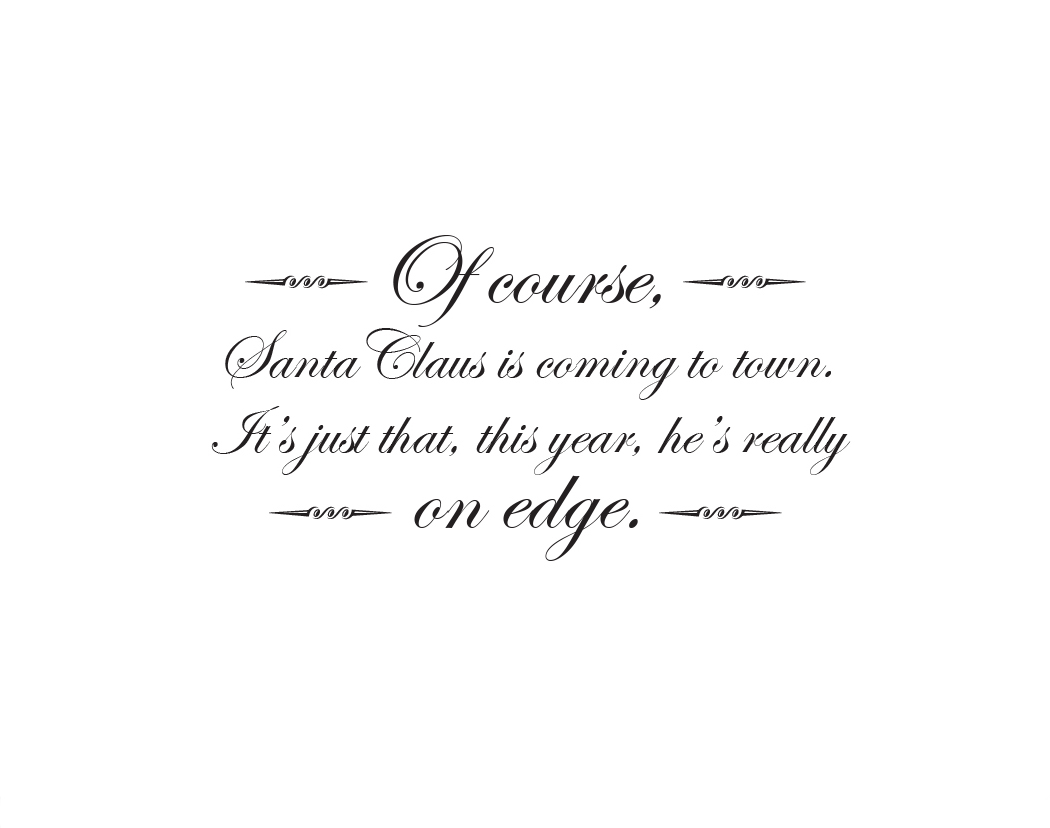
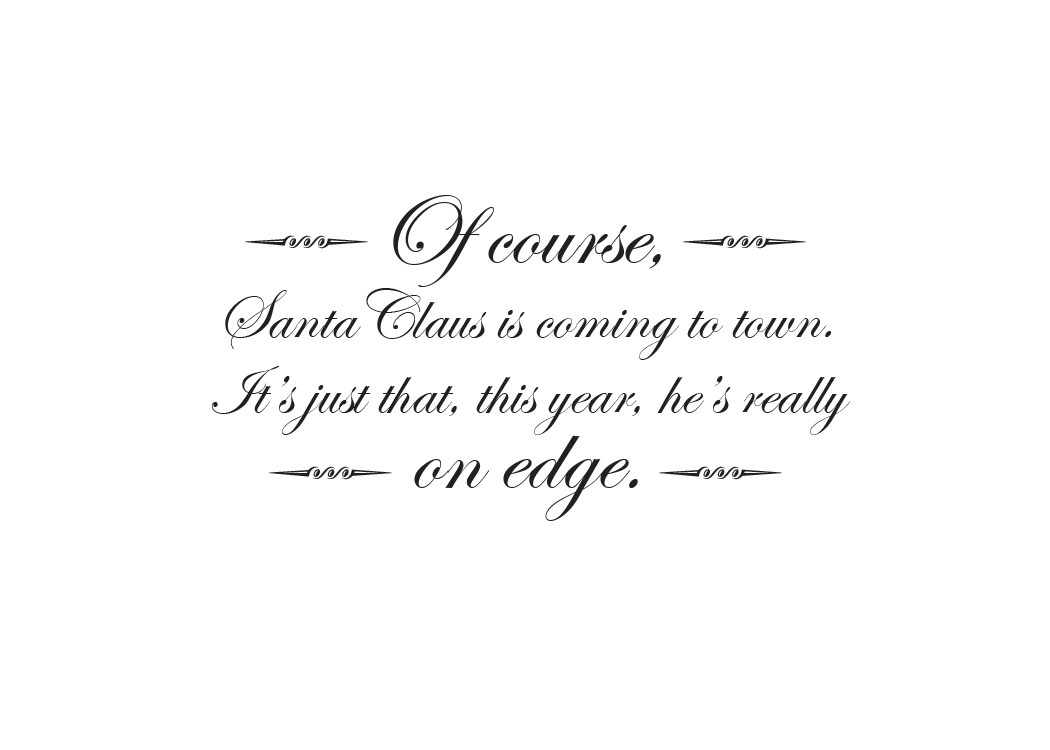
removed unnecessary constructors from About & Projects, added a typeface and imported react-medium-image-zoom for smooth image handling, completed cards portion of site

diff --git a/src/components/Cards.js b/src/components/Cards.js
@@ -15,34 +15,41 @@ import Inside2010 from '../images/2010/Inside2010.jpg'
 import Cover2011 from '../images/2011/Cover2011.jpg'
 import Inside2011 from '../images/2011/Inside2011.jpg'
 import Cover2013 from '../images/2013/Cover2013.jpg'
-import Inside2013_1 from '../images/2013/Inside2013_1.jpg'
+import Inside2013_6 from '../images/2013/Inside2013_6.jpg'
 
 export default class Cards extends React.Component {
 	constructor(props) {
 		super(props);
 
-			this.cardDescription2001 = "asdfasdf asdfasdf asdfasdf asdfasdf asdfasdf asdfasdf asdfasdf asdfasdf asdfasdf asdfasdf asdfasdf asdfasdf asdfasdf asdfasdf asdfasdf asdfasdf asdfasdf asdfasdf asdfasdf asdfasdf ";
+			this.cardDescription2001 = '"The Beginning..."';
+			this.cardDescription2007 = '"Three Wise Children"';
+			this.cardDescription2008 = '"Shredding Santa"';
+			this.cardDescription2009 = '"Cataloging Christmas"';
+			this.cardDescription2010 = '"The Sound of Pearson"';
+			this.cardDescription2011 = '"Hurricane Sandy is Coming to Town"';
+			this.cardDescription2013 = '"Christmas Fitness"';
+
 	}
 
 	render() {
 		return(
 			<div>
 				<div className="cardsSummary">
-					Ze Vault of Pearson Family Christmas Cards
+					The Vault of Pearson Family Christmas Cards
 				</div>
 				<div className="cardsContainer">
 					<SingleCard cover={Cover2001} inside={Inside2001} cardYear={"2001"} cardDescription={this.cardDescription2001}/>
-					<SingleCard cover={Cover2007} inside={Inside2007} cardYear={"2007"}/>
-					<SingleCard cover={Cover2008} inside={Inside2008} cardYear={"2008"}/>
-					<SingleCard cover={Cover2009} inside={Inside2009} cardYear={"2009"}/>
-					<SingleCard cover={Cover2010} inside={Inside2010} cardYear={"2010"}/>
-					<SingleCard cover={Cover2011} inside={Inside2011} cardYear={"2011"}/>
-					<SingleCard cover={Cover2013} inside={Inside2013_1} cardYear={"2013"}/>
+					<SingleCard cover={Cover2007} inside={Inside2007} cardYear={"2007"} cardDescription={this.cardDescription2007}/>
+					<SingleCard cover={Cover2008} inside={Inside2008} cardYear={"2008"} cardDescription={this.cardDescription2008}/>
+					<SingleCard cover={Cover2009} inside={Inside2009} cardYear={"2009"} cardDescription={this.cardDescription2009}/>
+					<SingleCard cover={Cover2010} inside={Inside2010} cardYear={"2010"} cardDescription={this.cardDescription2010}/>
+					<SingleCard cover={Cover2011} inside={Inside2011} cardYear={"2011"} cardDescription={this.cardDescription2011}/>
+					<SingleCard cover={Cover2013} inside={Inside2013_6} cardYear={"2013"} cardDescription={this.cardDescription2013}/>
 				</div>
 				<div className="ritigoContainer">
 					<span className="upper ritigo ritigoLightRed"></span>
 					<span className="middle ritigo ritigoDarkGreen"></span>
-					<span className="lower ritigo ritigoMediumGreen"></span>
+					<span className="lower ritigo ritigoLightRed"></span>
 					<span className="upperRight ritigo ritigoMediumGreen"></span>
 					<span className="middleRight ritigo ritigoLightRed"></span>
 					<span className="lowerRight ritigo ritigoDarkGreen"></span>

diff --git a/src/css/cards.css b/src/css/cards.css
@@ -1,16 +1,16 @@
-/* Cards */
+ /* Cards */
 
 
 .cardsSummary{
-	padding: 80px;
+	padding: 50px;
 	text-align: center;
-	font-family: tangerine;
-	font-size: 32px;
+	font-family: pinyon script;
+	font-style: normal;
+	font-size: 48px;
 }
 
 .cardsContainer{
-	min-height: 1000px;
-	width: 1000px;
+	width: 1100px;
 	min-width: 1000px;
 	margin: 0 auto;
 	border-radius: 5px;
@@ -18,15 +18,21 @@
 
 .cardLayout{
 	width: 100%;
-	margin: 20px;
+	/* padding-top: 5px;
+	padding-bottom: 5px; */
+	padding: 10px;
+	margin-bottom: 20px;
 	float: left;
 	background-color: rgba(255,255,255, 1);
+	border: 0.5px solid lightgrey;
 	text-align: center;
 	border-radius: 5px;
 }
 
-.cardLayout > div {
-	display: inline-block;
+.cardLayout{
+	display: flex;
+	justify-content: space-between;
+	align-items: center;
 	vertical-align: middle;
 	vertical-align: -webkit-baseline-middle;
 }
@@ -35,29 +41,37 @@
 	margin: auto;
 	height: auto;
 	width: 300px;
+	margin-right: 5px;
+	border: 0.5px solid green;
+	border-radius: 3px;
 }
 
 .cardInside{
+	margin: auto;
 	height: auto;
 	width: 300px;
+	margin-right: 5px;
+	border: 0.5px solid red;
+	border-radius: 3px;
 }
 
 .cardYear{
-	padding: 15px;
+	min-width: 300px;
 	text-align: center;
-	font-family: bitter;
-	text-decoration: underline;
-	font-size: 36px;
+	font-family: pinyon script;
+	font-size: 40px;
 }
 
 .cardDescription{
-	width: 250px;
-	height: 250px;
-	word-wrap: break-word;
+	text-align: center;
+	font-family: pinyon script;
+	font-size: 32px;
+	white-space: pre-wrap;
 }
 
 .cardTextContainer{
 	margin: auto;
+	padding: 15px;
 }
 
 .ritigoLightRed{

diff --git a/src/css/general.css b/src/css/general.css
@@ -8,9 +8,6 @@
 
 .bannerContainer{
 	width: 100%;
-	position: sticky;
-	position: -webkit-sticky;
-	top: 0;
 	background-color: white;
 }
 
@@ -26,14 +23,6 @@
 	width: 100%;
 	min-width: 1000px;
 	text-align: center;
-	-moz-animation: reveal-banner 1s 0.25s ease-in-out;
-	-webkit-animation: reveal-banner 1s 0.25s ease-in-out;
-	-ms-animation: reveal-banner 1s 0.25s ease-in-out;
-	animation: reveal-banner 1s 0.25s ease-in-out;
-	-moz-animation-fill-mode: forwards;
-	-webkit-animation-fill-mode: forwards;
-	-ms-animation-fill-mode: forwards;
-	animation-fill-mode: forwards;
 }
 
 .pearsonalLogo{
@@ -84,6 +73,11 @@
 	text-align: center;
 	list-style-type: none;
 	display: inline-block;
+	position: -webkit-sticky;
+	position: -moz-sticky;
+	position: -ms-sticky;
+	position: -o-sticky;
+	top: 0;
 }
 
 li{
@@ -138,9 +132,13 @@ li{
 /* Footer */
 
 .footerContainer{
-	width: 1000px;
+	width: 100%;
 	min-width: 1000px;
 	margin: 0 auto;
+}
+
+hr{
+	width: 1000px;
 }
 
 .footerText{
@@ -155,7 +153,7 @@ li{
 /* Ritigos */
 
 .ritigoContainer{
-	/* min-width: 1000px !important; */
+	width: 1000px !important;
 }
 
 .ritigo{
@@ -163,9 +161,12 @@ li{
 	transform: skewY(-12deg);
 	background-clip: border-box;
 	box-sizing: border-box;
-	position: absolute;
 	display: block;
 	z-index: -100;
+}
+
+.ritigoContainer > span{
+	position: fixed;
 }
 
 .upper{

diff --git a/src/components/SingleCard.js b/src/components/SingleCard.js
@@ -1,27 +1,23 @@
 import React from 'react';
+import ImageZoom from 'react-medium-image-zoom'
 
 export default class SingleCard extends React.Component {
-	constructor(props) {
-		super(props);
-
-	}
-
 	render() {
 		return(
 			<div className="cardLayout">
-				<div>
-					<img className="cardCover" src={this.props.cover} alt="Cover" />
-				</div>
-				<div>
-					<img className="cardInside" src={this.props.inside} alt="Inside" />
-				</div>
 				<div className="cardTextContainer">
 					<div className="cardYear">
 						{this.props.cardYear}
 					</div>
-					<div className="cardDescription">
+					<span className="cardDescription">
 						{this.props.cardDescription}
-					</div>
+					</span>
+				</div>
+				<div>
+					<ImageZoom image={{src: this.props.cover, alt: 'Cover', className: 'cardCover'}}/>
+				</div>
+				<div>
+					<ImageZoom image={{src: this.props.inside, alt: 'Inside', className: 'cardInside'}}/>
 				</div>
 			</div>
 		)

diff --git a/src/App.js b/src/App.js
@@ -14,7 +14,7 @@ import About from './components/About';
 import Cards from './components/Cards';
 import Projects from './components/Projects';
 import NotFound from './components/NotFound';
-// import Footer from './components/Footer';
+import Footer from './components/Footer';
 
 class App extends Component {
     render() {
@@ -30,6 +30,7 @@ class App extends Component {
 						<Route component={NotFound}/>
 					</Switch>
 				</Router>
+				<Footer/>
 			</div>
         );
     }
@@ -38,4 +39,3 @@ class App extends Component {
 export default App;
 
 // 248, 208, 231 (Pink)
-// <Footer/>

diff --git a/src/index.css b/src/index.css
@@ -1,6 +1,7 @@
 body{
+	height: 100%;
+	bottom: 0;
 	margin: 0;
-	padding: 0;
 	background-color: rgba(246, 249, 252, 1);
 	font-family: -apple-system, BlinkMacSystemFont, "Segoe UI", "Roboto", "Oxygen",
 	"Ubuntu", "Cantarell", "Fira Sans", "Droid Sans", "Helvetica Neue",

diff --git a/src/index.js b/src/index.js
@@ -2,6 +2,9 @@ import React from 'react';
 import ReactDOM from 'react-dom';
 
 import "typeface-bitter";
+import "typeface-pinyon-script";
+import "react-medium-image-zoom";
+
 import './index.css';
 
 import App from './App';

diff --git a/src/components/About.js b/src/components/About.js
@@ -1,10 +1,7 @@
 import React from 'react';
 
 export default class About extends React.Component {
-	// constructor(props) {
-	// 	super(props);
-	// }
-
+	
 	render() {
 		return(
 			<div>

diff --git a/src/components/Projects.js b/src/components/Projects.js
@@ -1,9 +1,6 @@
 import React from 'react';
 
 export default class Projects extends React.Component {
-	// constructor(props) {
-	// 	super(props);
-	// }
 
 	render() {
 		return(
